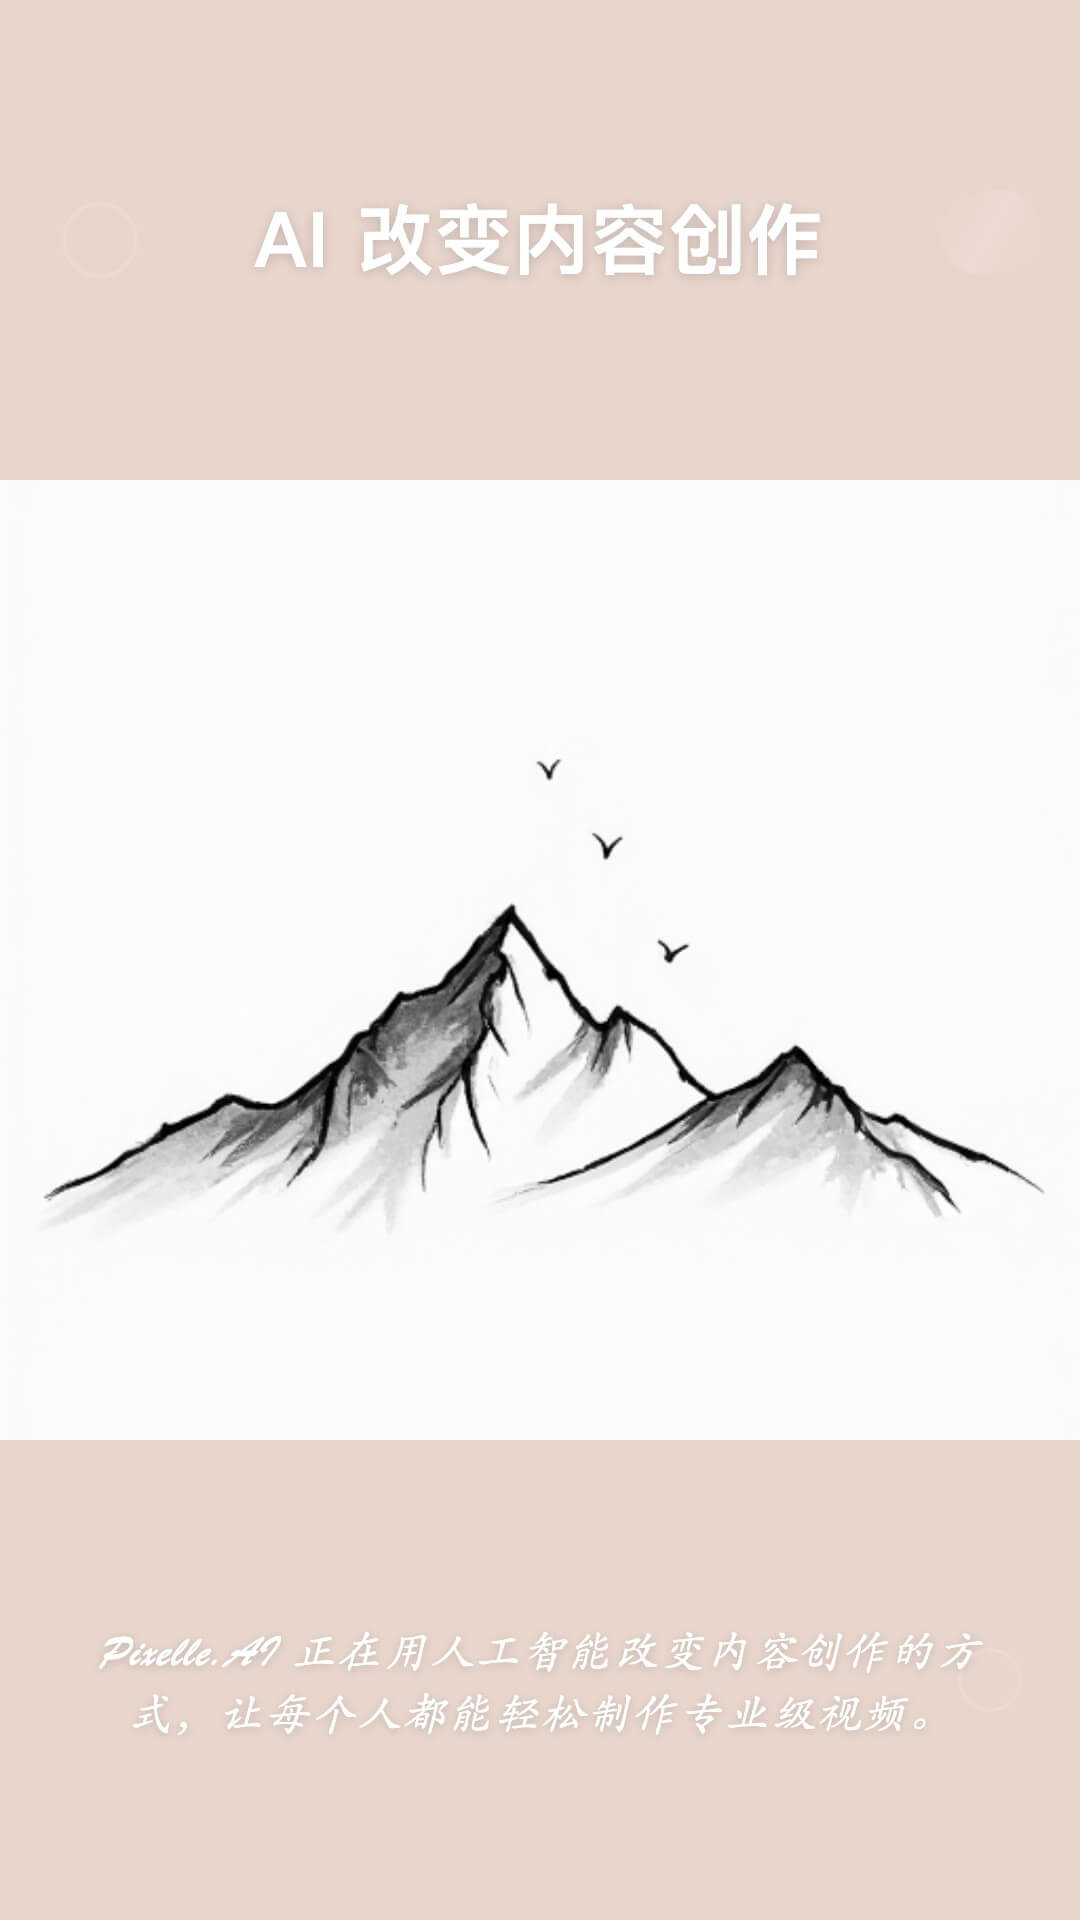
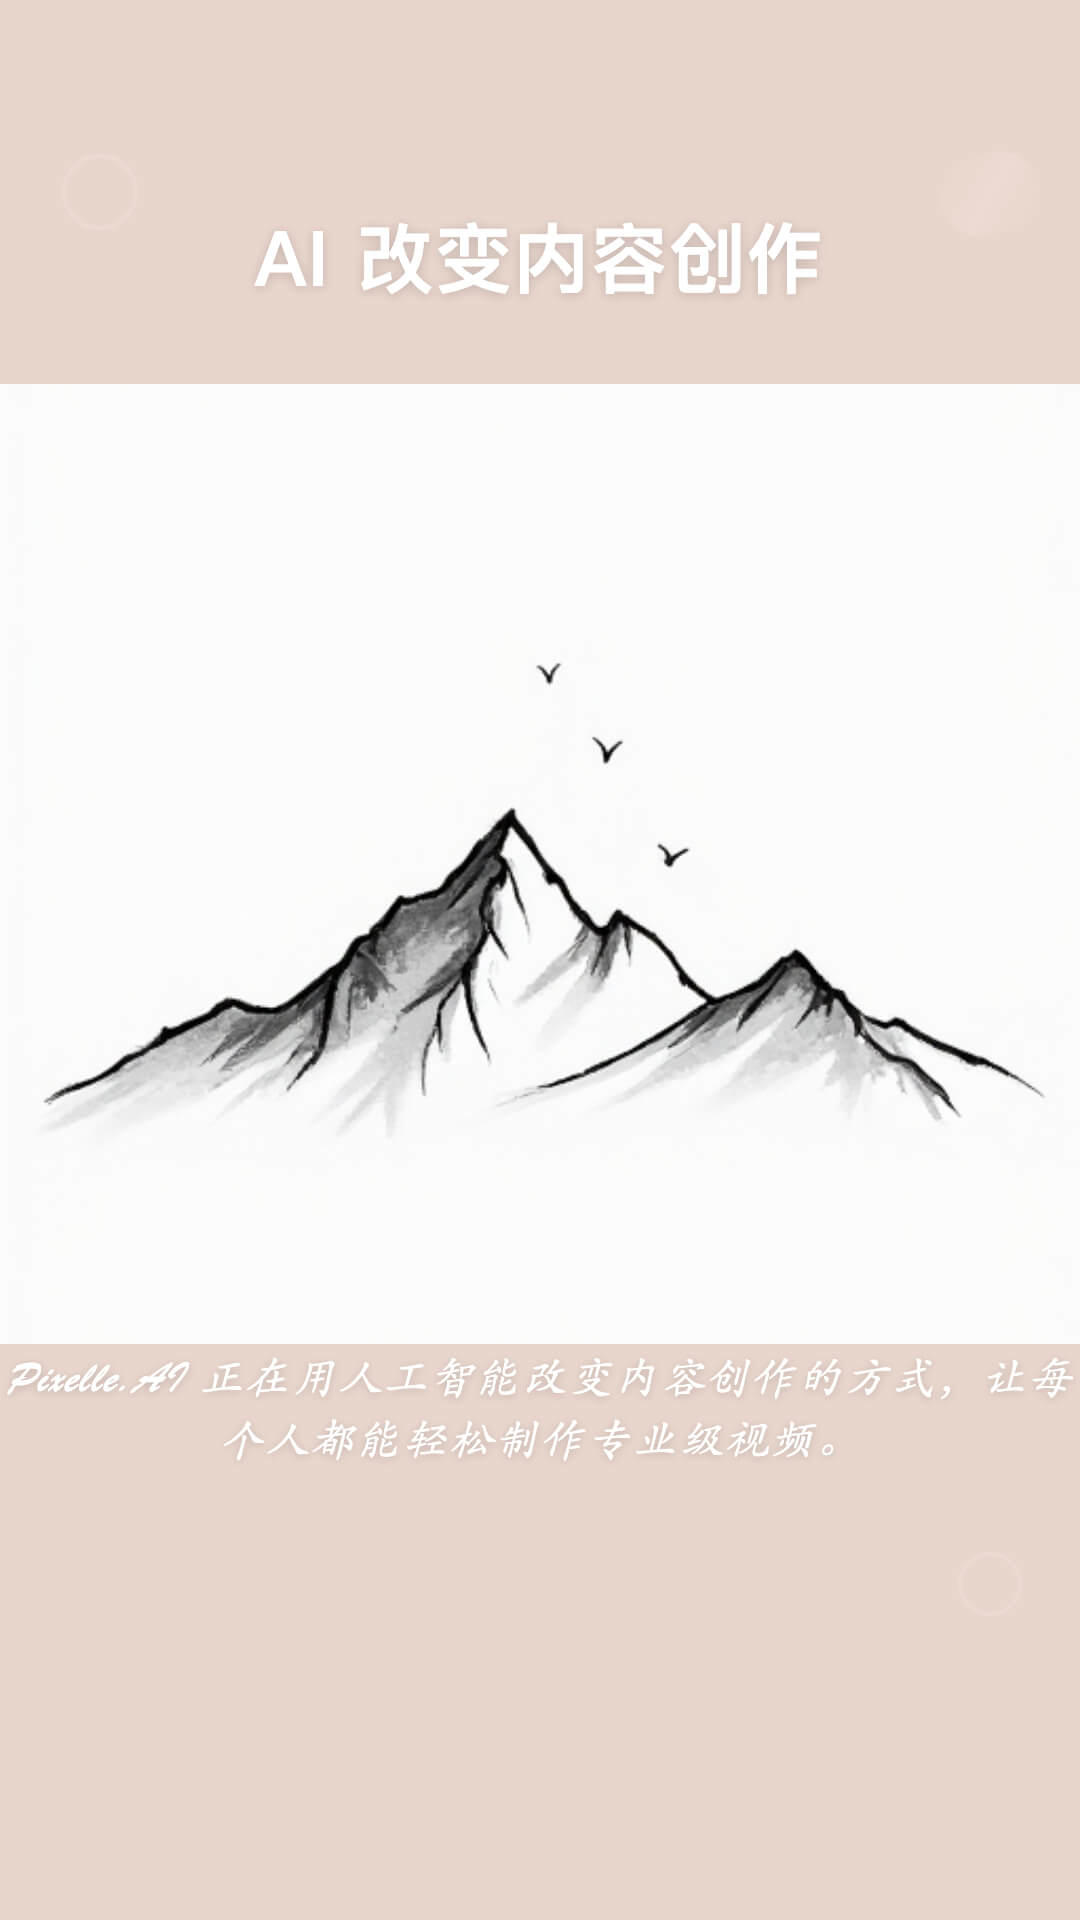
feat:update templaters

diff --git a/templates/1080x1920/image_book.html b/templates/1080x1920/image_book.html
@@ -23,21 +23,28 @@
             background: #1a1a1a;
             background-image: url("{{image}}");
             background-size: cover;
-            background-position: center;
+            background-position: center bottom 400px;
         }
 
         /* 顶部区域 */
         .top-section {
             position: absolute;
-            top: 18%;
+            top: 10%;
             left: 50%;
             transform: translateX(-50%);
             text-align: center;
             width: 90%;
         }
 
+        .image {
+            position: absolute;
+            top: 400px;
+            left: 50%;
+            transform: translate(-50%);
+        }   
+
         .title {
-            font-size: 120px;
+            font-size: 100px;
             font-weight: 900;
             line-height: 1.1;
             font-family: 'Noto Sans SC', sans-serif;
@@ -51,7 +58,7 @@
         }
 
         .subtitle {
-            font-size: 36px;
+            font-size: 30px;
             font-weight: 500;
             font-family: 'Noto Sans SC', sans-serif;
             color: #000;
@@ -65,7 +72,7 @@
         /* 底部文字区域 */
         .bottom-section {
             position: absolute;
-            bottom: 200px;
+            top: 1000px;
             left: 50%;
             transform: translateX(-50%);
             text-align: center;
@@ -73,7 +80,7 @@
         }
 
         .main-text {
-            font-size: 60px;
+            font-size: 50px;
             font-weight: 700;
             font-family: 'Noto Sans SC', sans-serif;
             text-shadow: -2px -2px 0 #000,
@@ -101,6 +108,8 @@
         <div class="subtitle">{{subtitle=作者}}</div>
     </div>
 
+    <!-- <img class="img" src="{{image}}" alt="内容图片"> -->
+    
     <!-- 底部文字区 -->
     <div class="bottom-section">
         <div class="main-text">{{text}}</div>

diff --git a/templates/1080x1920/image_fashion_vintage.html b/templates/1080x1920/image_fashion_vintage.html
@@ -20,11 +20,11 @@
 
         /* 顶部标题区（约25%）*/
         .top {
-            height: 25%;
+            height: 20%;
             background: #e8d5cc; /* 淡棕粉色 */
             position: relative;
             display: flex;
-            align-items: center;
+            align-items: flex-end;
             justify-content: center;
             padding: 80px 60px;
         }
@@ -76,7 +76,7 @@
             background: #f8f6f4; /* 浅灰白色 */
             position: relative;
             display: flex;
-            align-items: center;
+            align-items: flex-start;
             justify-content: center;
             overflow: hidden;
         }
@@ -100,9 +100,9 @@
             background: #e8d5cc; /* 与顶部相同颜色 */
             position: relative;
             display: flex;
-            align-items: center;
+            align-items: flex-start;
             justify-content: center;
-            padding: 60px;
+            padding: 0px;
         }
 
         .bottom-decoration {

diff --git a/templates/1080x1920/image_life_insights.html b/templates/1080x1920/image_life_insights.html
@@ -47,9 +47,8 @@
         /* 中间图片区域 */
         .image-section {
             width: 100%;
-            flex: 1;
+            height: auto;
             display: flex;
-            align-items: center;
             justify-content: center;
             padding: 0 40px;
             box-sizing: border-box;
@@ -103,7 +102,7 @@
         /* 底部文字区域 */
         .bottom-text-section {
             width: 100%;
-            padding: 0px 60px 90px 60px;
+            padding: 0 60px;
             box-sizing: border-box;
             display: flex;
             flex-direction: column;
@@ -114,7 +113,7 @@
         
         /* 人生感悟 - 大红色粗体 */
         .highlight-text {
-            font-size: 80px;
+            font-size: 40px;
             color: #FFFFFF;
             font-weight: 400;
             letter-spacing: 3px;

diff --git a/templates/1080x1920/image_psychology_card.html b/templates/1080x1920/image_psychology_card.html
@@ -22,7 +22,7 @@
 
         /* 顶部黑底标题区 */
         .top {
-            height: 30%;
+            height: 20%;
             background: #0a0a0a;
             padding: 100px 70px 40px;
             display: flex;
@@ -47,7 +47,7 @@
         /* 将图片中心对齐到整页正中心（与标题无关） */
         .media {
             position: absolute;
-            top: 50%;
+            top: 40%;
             left: 50%;
             transform: translate(-50%, -50%);
             max-width: 86%;
@@ -78,7 +78,7 @@
                           3px  3px 0 #000;
         }
 
-        @media (max-width: 1080px) { .title { font-size: 84px; } .caption { font-size: 48px; bottom: 300px; } }
+        @media (max-width: 1080px) { .title { font-size: 84px; } .caption { font-size: 48px; bottom: 600px; } }
     </style>
 </head>
 <body>
